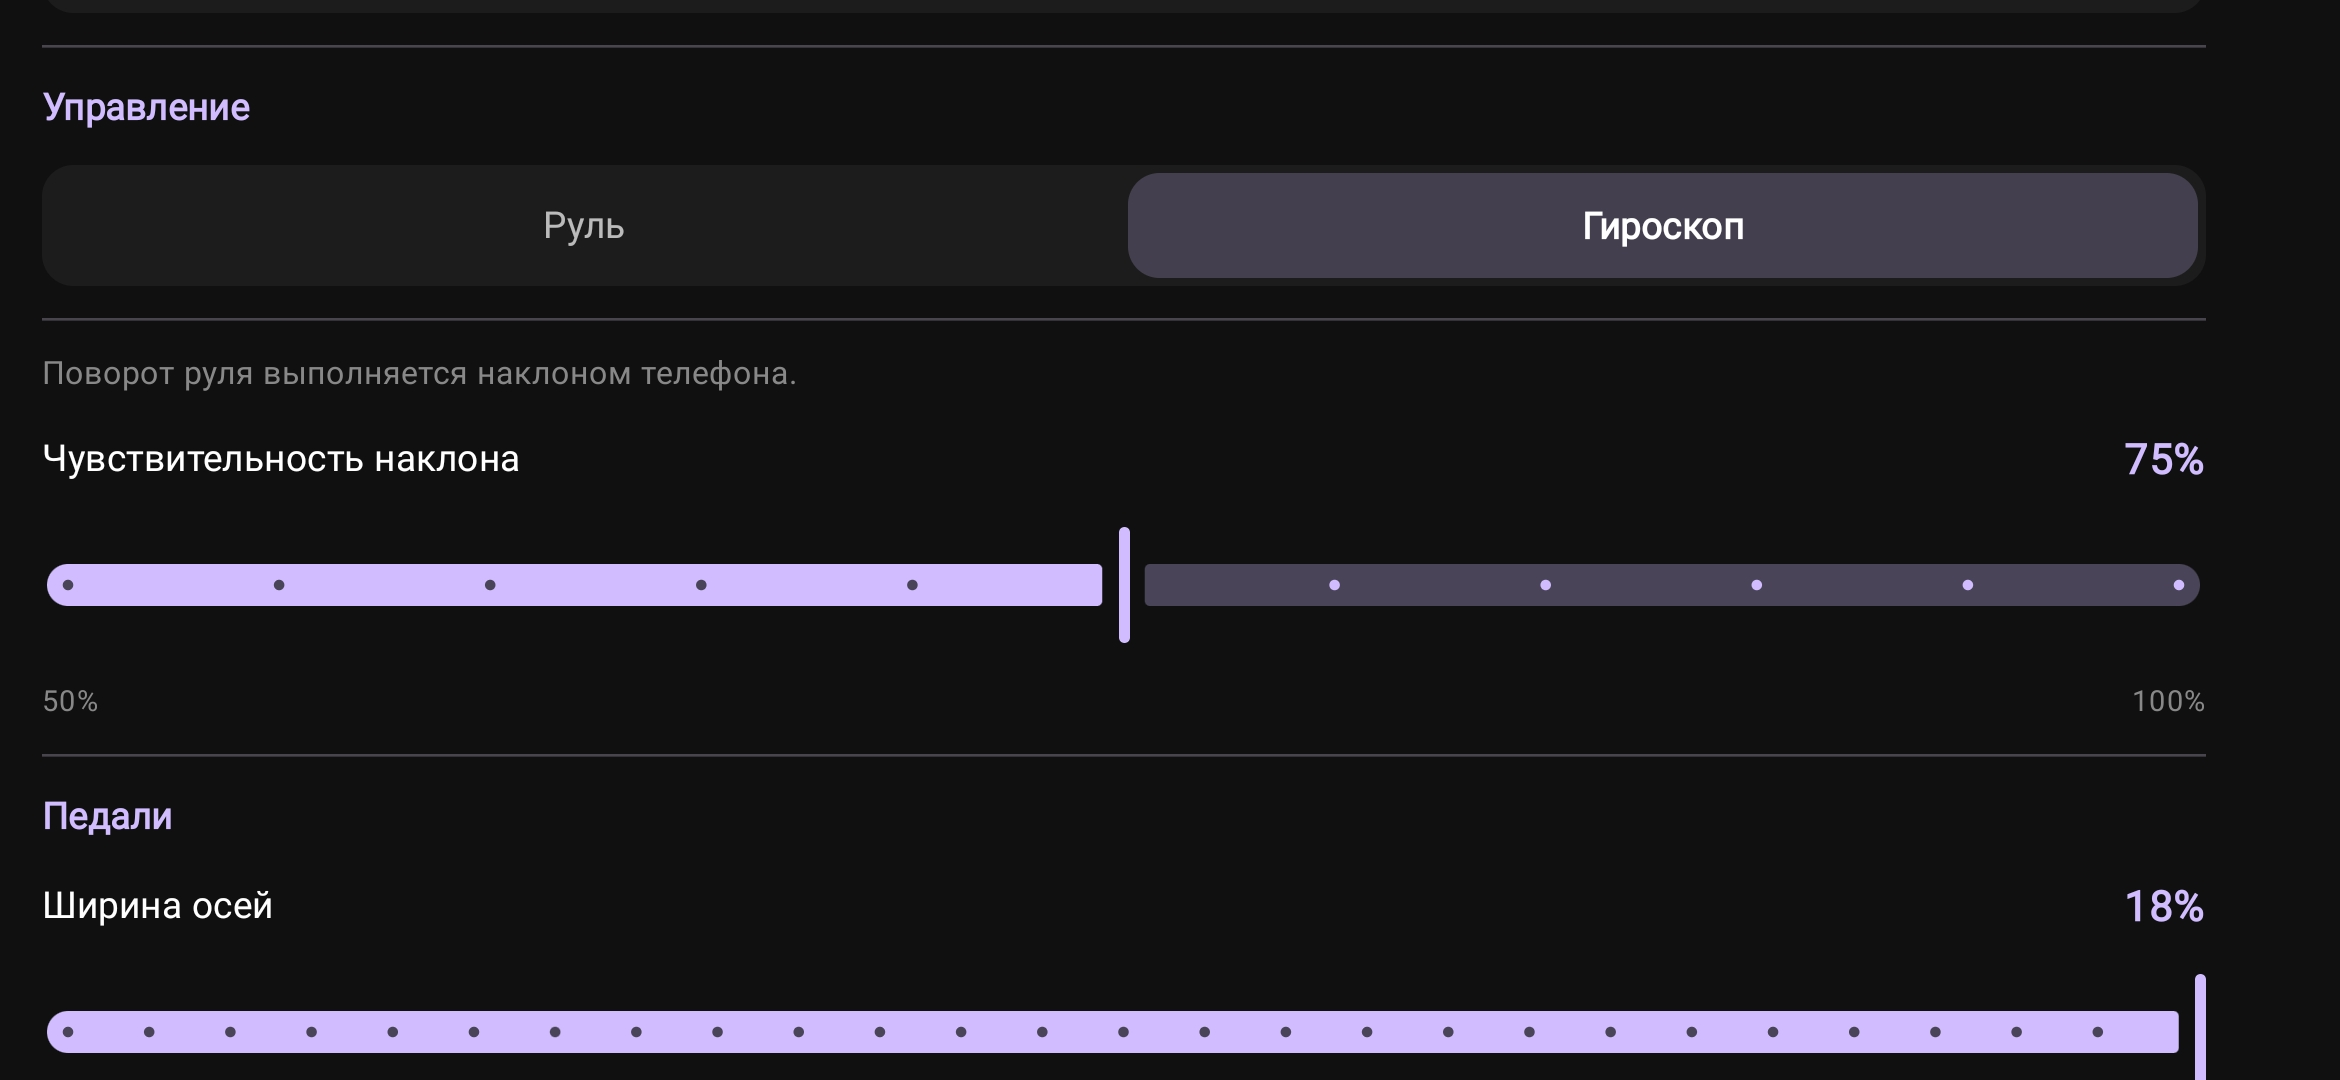
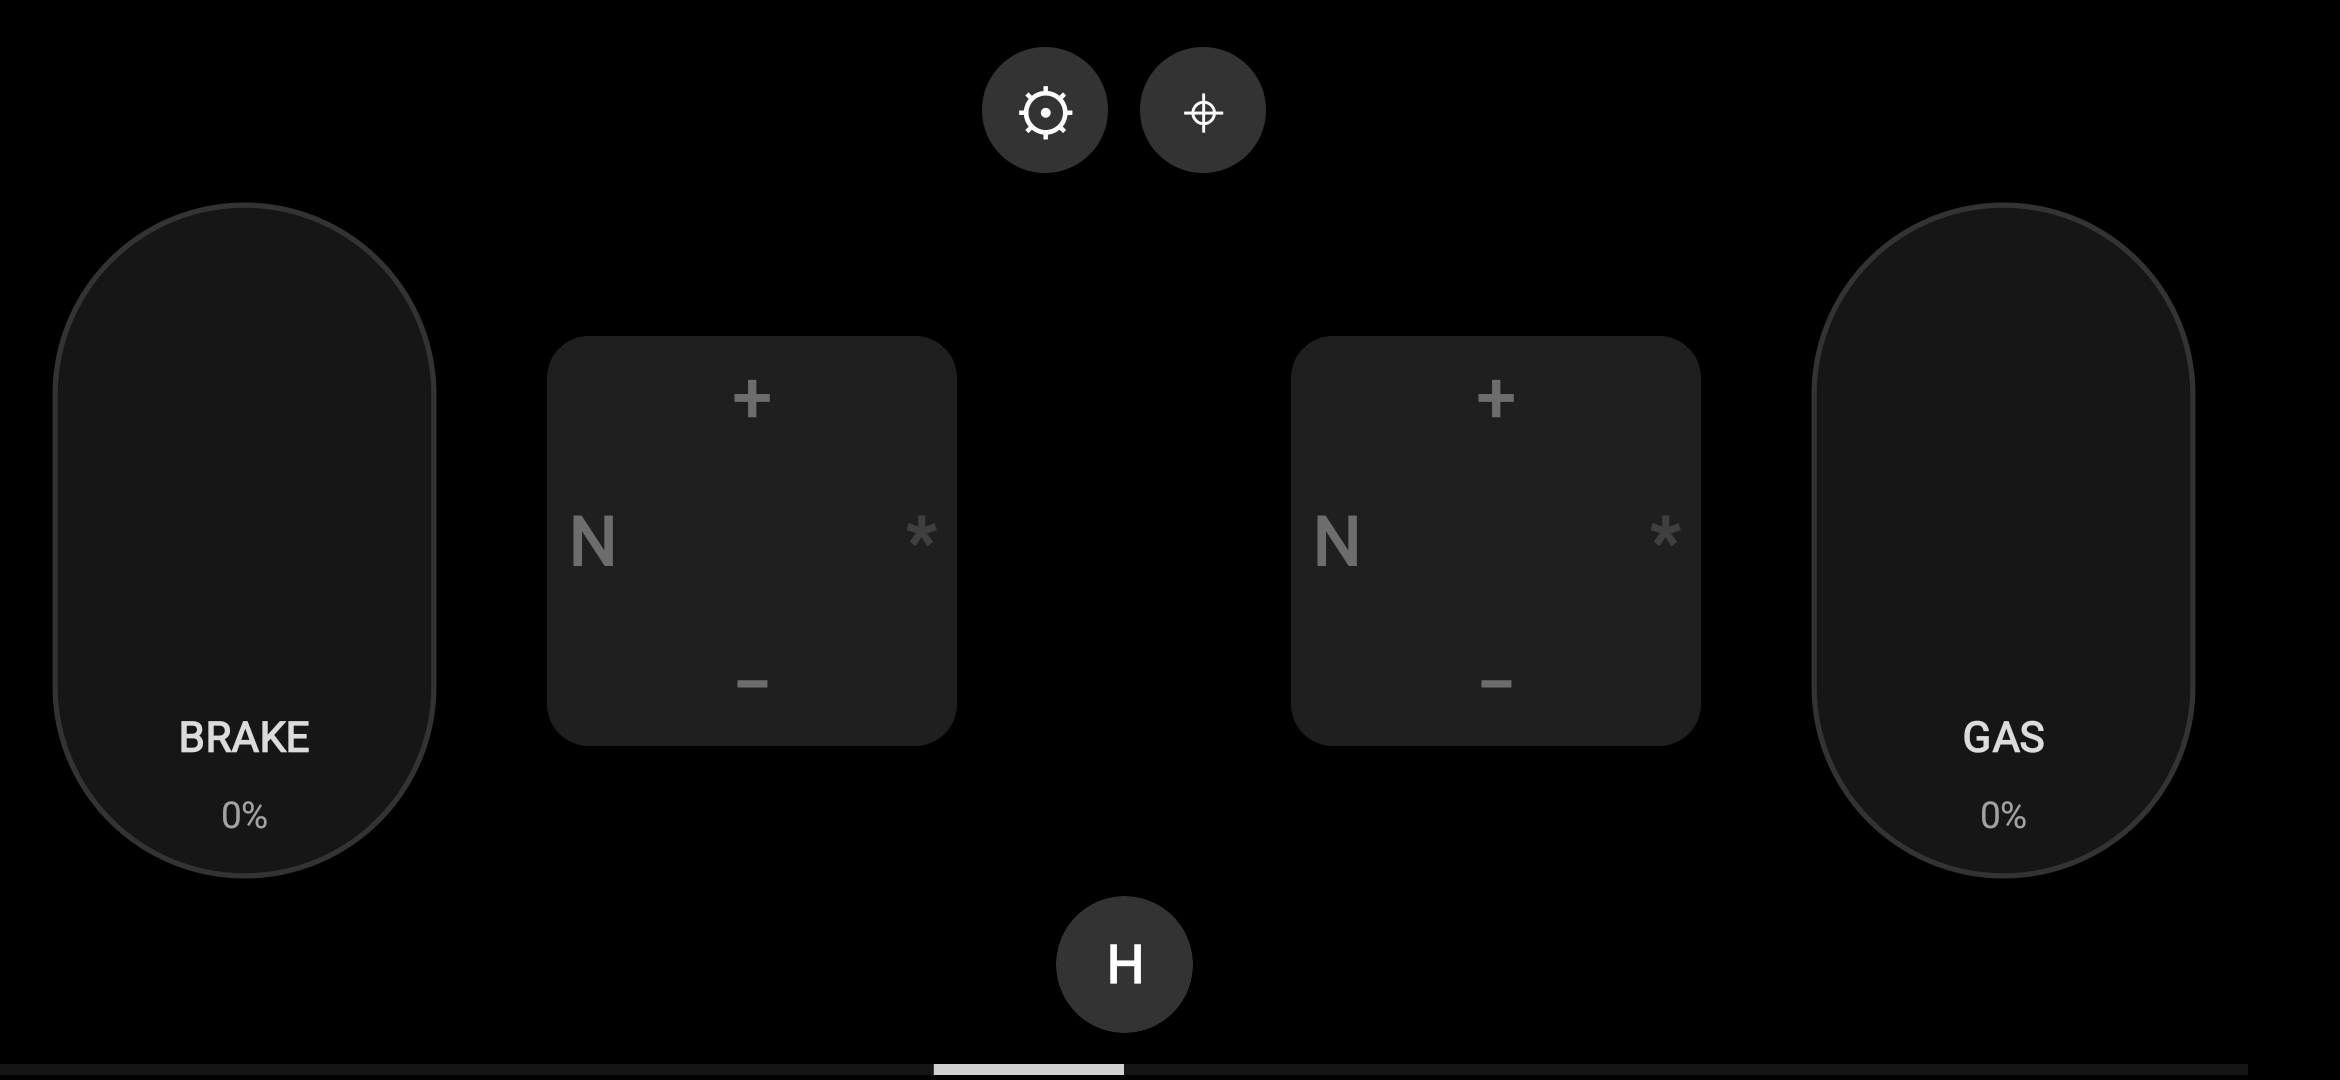
readme for 1.2 release

diff --git a/README.md b/README.md
@@ -7,10 +7,9 @@ To BeamNG.drive on Linux it looks like an ordinary controller — no Bluetooth, 
 
 Steering works either with a **finger on an on-screen wheel** or with the **phone's tilt sensors**.
 
-| Control — wheel mode | Settings |
+| Wheel mode | Tilt mode |
 |:---:|:---:|
-| ![Control screen, wheel mode](docs/screenshots/control-wheel.png) | ![Settings](docs/screenshots/settings.png) |
-| ![Control screen, tilt mode](docs/screenshots/control-tilt.png) | ![Settings, pedal options](docs/screenshots/settings-pedals.png) |
+| ![Control screen, wheel mode](docs/screenshots/control-wheel.png) | ![Control screen, tilt mode](docs/screenshots/control-tilt.png) |
 
 ## How it works
 
@@ -83,6 +82,10 @@ The accelerometer is re-weighted smoothly when the phone is tilted again, so the
 
 ## Settings
 
+### Connection and mode
+
+![Settings, connection and mode](docs/screenshots/settings.png)
+
 | Parameter | Default | Description |
 |---|---|---|
 | PC IP address | — | the computer's address on the local network |
@@ -91,14 +94,21 @@ The accelerometer is re-weighted smoothly when the phone is tilted again, so the
 | Control mode | Wheel | `Wheel` (finger) or `Tilt` (sensors) |
 | Lock to lock angle | `960°` | wheel mode, options: 960, 720, 360, 305, 270 |
 | Tilt sensitivity | `100%` | tilt mode, `50 … 100%` |
+
+The status card shows whether streaming is active, which address it targets and how many packets were sent.
+If the port or address is invalid, default values are substituted.
+
+### Pedals and axis
+
+![Settings, pedals and axis](docs/screenshots/settings-pedals.png)
+
+| Parameter | Default | Description |
+|---|---|---|
 | Pedal press, ms | `100` | press ramp |
 | Pedal release, ms | `300` | release ramp |
 | Axis width | `9%` | pedal strip width, `5 … 18%` of screen width |
 | Pedal length | `100%` | pedal strip height, `35 … 100%` of screen height |
 | Invert brake axis by 180° | off | brake axis inversion |
-
-The status card shows whether streaming is active, which address it targets and how many packets were sent.
-If the port or address is invalid, default values are substituted.
 
 ## Build and run
 
